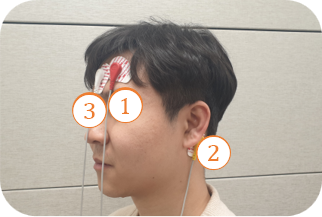
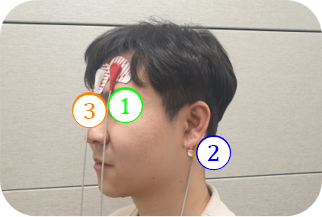
v2.0.7
피드백 수용하여 글자, 색상, 숫자 등 변경

diff --git a/docs/measurewiz.html b/docs/measurewiz.html
@@ -15,7 +15,7 @@
         <div class="logo">NEUROWIZTEK</div>
         <h1>MeasureWiz 사용설명서</h1>
         <p>웨어러블 생체신호 측정 및 분석 시스템</p>
-        <span class="version-badge">Ver 2.0.6 (2025.12)</span>
+        <span class="version-badge">Ver 2.0.7 (2025.12)</span>
     </header>
 
     <nav class="toc">
@@ -73,7 +73,7 @@
             <ol class="step-list">
                 <li>각각의 케이블을 측정기의 'SIG', 'GND', 'REF' 극에 연결합니다.</li>
                 <li>스냅형 전극 케이블과 일회용 전극 패드를 연결합니다.</li>
-                <li>전극 패드를 알맞은 측정 부위 피부에 부착합니다.</li>
+                <li>전극 패드를 알맞은 측정 부위 피부에 부착합니다. (아래의 🛠 전극 연결 팁 참고)</li>
                 <li>측정기의 전원을 켜줍니다. (블루투스 연결을 위한 초록색 LED가 켜집니다.)</li>
                 <li>스마트폰의 ‘MeasureWiz’ 앱과 블루투스 연결을 합니다.</li>
                 <li>EEG, ECG, EOG, EMG 중 하나를 선택하여 신호를 측정합니다.</li>
@@ -89,9 +89,9 @@
             <h4 class="guide-title">뇌전도 (EEG)</h4>
             <div class="guide-content">
                 <ul class="guide-text">
-                    <li><span class="num">1</span> <strong>SIG</strong> : 이마 왼편</li>
-                    <li><span class="num">2</span> <strong>REF</strong> : 귀 뒤 뼈</li>
-                    <li><span class="num">3</span> <strong>GND</strong> : 이마 중앙</li>
+                    <li><span class="num sig">1</span> <strong>SIG</strong> : 이마 왼편</li>
+                    <li><span class="num ref">2</span> <strong>REF</strong> : 귀 뒤 뼈</li>
+                    <li><span class="num gnd">3</span> <strong>GND</strong> : 이마 중앙</li>
                 </ul>
                 <div class="guide-image">
                     <img src="images/Measurewiz 사용설명서 EEG 측정 예시.png" alt="EEG 측정 예시">
@@ -103,9 +103,9 @@
             <h4 class="guide-title">심전도 (ECG)</h4>
             <div class="guide-content">
                 <ul class="guide-text">
-                    <li><span class="num">1</span> <strong>SIG</strong> : 왼 발목</li>
-                    <li><span class="num">2</span> <strong>REF</strong> : 오른 손목</li>
-                    <li><span class="num">3</span> <strong>GND</strong> : 왼 손목</li>
+                    <li><span class="num sig">1</span> <strong>SIG</strong> : 왼 발목</li>
+                    <li><span class="num ref">2</span> <strong>REF</strong> : 오른 손목</li>
+                    <li><span class="num gnd">3</span> <strong>GND</strong> : 왼 손목</li>
                 </ul>
                 <div class="guide-image">
                     <img src="images/Measurewiz 사용설명서 ECG 측정 예시.png" alt="ECG 측정 예시">
@@ -117,9 +117,9 @@
             <h4 class="guide-title">안전도 (EOG)</h4>
             <div class="guide-content">
                 <ul class="guide-text">
-                    <li><span class="num">1</span> <strong>SIG</strong> : 왼 눈썹 위</li>
-                    <li><span class="num">2</span> <strong>REF</strong> : 왼 이마 위</li>
-                    <li><span class="num">3</span> <strong>GND</strong> : 이마 중앙</li>
+                    <li><span class="num sig">1</span> <strong>SIG</strong> : 왼 눈썹 위</li>
+                    <li><span class="num ref">2</span> <strong>REF</strong> : 왼 이마 위</li>
+                    <li><span class="num gnd">3</span> <strong>GND</strong> : 이마 중앙</li>
                 </ul>
                 <div class="guide-image">
                     <img src="images/Measurewiz 사용설명서 EOG 측정 예시.png" alt="EOG 측정 예시">
@@ -131,9 +131,9 @@
             <h4 class="guide-title">근전도 (EMG)</h4>
             <div class="guide-content">
                 <ul class="guide-text">
-                    <li><span class="num">1</span> <strong>SIG</strong> : 상박(이두)</li>
-                    <li><span class="num">2</span> <strong>REF</strong> : 하박 위</li>
-                    <li><span class="num">3</span> <strong>GND</strong> : 하박 아래</li>
+                    <li><span class="num sig">1</span> <strong>SIG</strong> : 상박(이두)</li>
+                    <li><span class="num ref">2</span> <strong>REF</strong> : 하박 위</li>
+                    <li><span class="num gnd">3</span> <strong>GND</strong> : 하박 아래</li>
                 </ul>
                 <div class="guide-image">
                     <img src="images/Measurewiz 사용설명서 EMG 측정 예시.png" alt="EMG 측정 예시">
@@ -146,25 +146,17 @@
         </section>
 
         <section id="app_use">
-            <h2>4. 애플리케이션 사용법</h2>
-            <p>스마트폰의 'MeasureWiz' 앱과 블루투스 연결을 진행해주세요.</p>
+            <h2>4. 어플리케이션 사용법</h2>
 
-            <h3>4-1. 블루투스 연결</h3>
-            <ol>
+            <ol class="step-list">
                 <li>블루투스 등록: 스마트폰의 블루투스 설정에서 'MeasureWiz'을 등록합니다.</li>
                 <li>블루투스 연결: MeasureWiz 앱을 실행하여, 블루투스 연결 버튼을 누릅니다.</li>
-            </ol>
-
-            <h3>4-2. 신호 측정 및 녹화</h3>
-            <ol>
                 <li>생체 신호 선택: App에서 뇌전도(EEG), 심전도(ECG), 안전도(EOG), 근전도(EMG) 중 하나를 선택합니다.</li>
                 <li>녹화 시작: '녹화 시작' 버튼을 누르면 '녹화 중' 문구가 나옵니다.</li>
                 <li>저장 단위: 녹화는 30초 단위로 자동 저장됩니다.</li>
+                <li>'기록'을 누르면 저장 위치 폴더(경로: Download > Measure)에서 데이터 자료(.csv 파일)를 불러와 기록된 자료 확인이 가능합니다.</li>
+                <li>측정 신호, 스펙트로그램, 파워 스펙트럼 결과를 확인할 수 있습니다.</li>
             </ol>
-            
-            <h3>4-3. 신호 분석 결과 확인</h3>
-            <p>'기록'을 누르면 저장 위치 폴더(경로: Download > Measure)에서 데이터 자료(.csv 파일)를 불러와 기록된 자료 확인이 가능합니다.</p>
-            <p>측정 신호, 스펙트로그램, 파워 스펙트럼 결과를 확인할 수 있습니다.</p>
 
     <div class="app-guide-container">
     

diff --git a/docs/style.css b/docs/style.css
@@ -292,12 +292,12 @@ ol.step-list li::before {
     line-height: 1.8;
 }
 
-/* 번호 동그라미 스타일 (①, ② 효과) */
+/* 1. 기본 번호 동그라미 스타일 (모양 유지) */
 .guide-text .num {
     display: inline-block;
     width: 20px;
     height: 20px;
-    background-color: #ff9800; /* 주황색 포인트 */
+    background-color: #ddd; /* 기본 회색 (혹시 클래스 빠졌을 때 대비) */
     color: white;
     border-radius: 50%;
     text-align: center;
@@ -305,6 +305,23 @@ ol.step-list li::before {
     font-size: 0.8rem;
     font-weight: bold;
     margin-right: 6px;
+}
+
+/* 2. 신호별 색상 커스텀 (여기가 핵심!) */
+
+/* SIG (신호) : 빨간색 (눈에 띄는 색) */
+.guide-text .num.sig {
+    background-color: #00FF00; 
+}
+
+/* REF (기준) : 파란색 (차분한 색) */
+.guide-text .num.ref {
+    background-color: #0000FF;
+}
+
+/* GND (접지) : 초록색 (안전/접지 표준 색) */
+.guide-text .num.gnd {
+    background-color: #FF7F00;
 }
 
 /* 이미지 영역 스타일 */
